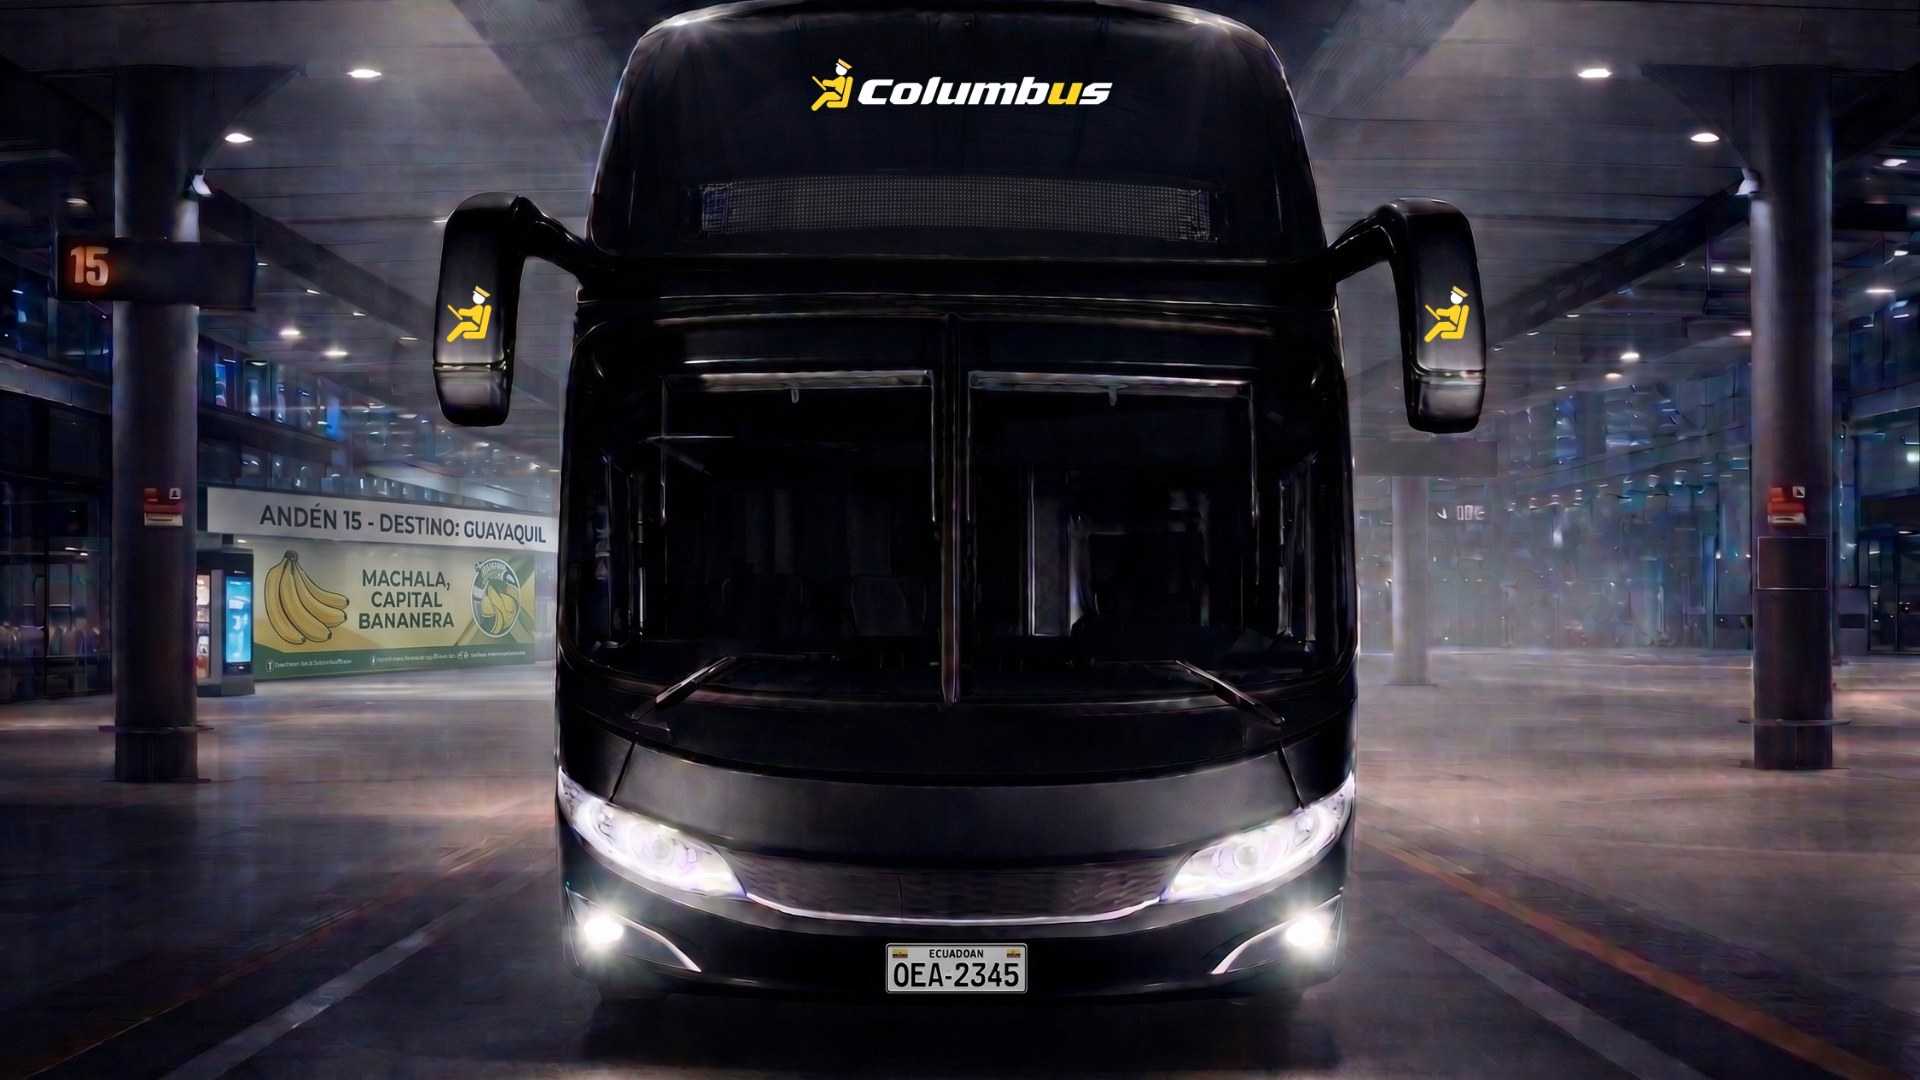
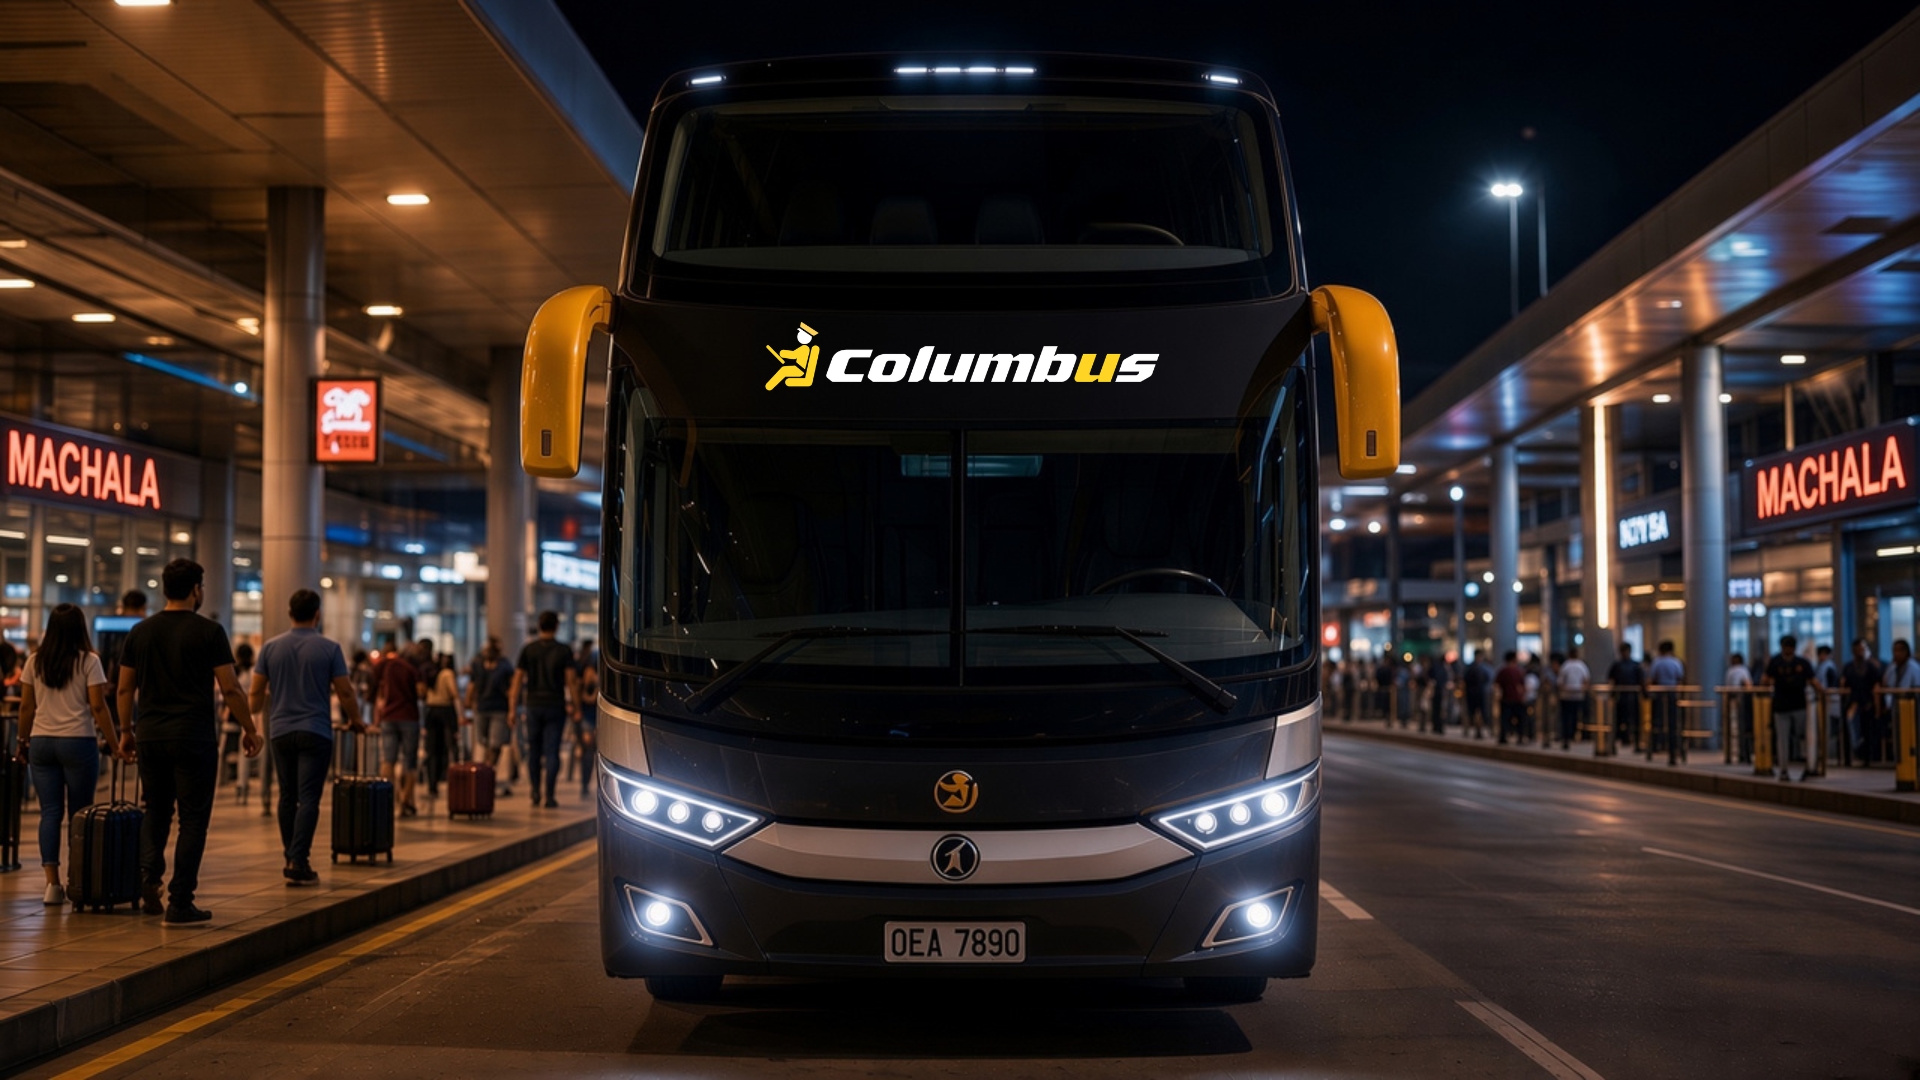
fix: sin superposicion en NINGUNA pantalla + foto real nueva del bus en Machala
El director aclaro que el problema no era exclusivo de celular:
queria la foto sin nada superpuesto en NINGUN tamaño de pantalla.

Corregido: quitados todos los ajustes md: que reactivaban la
superposicion en pantalla grande. Ahora la foto se ve completa
siempre (mas alta en escritorio, 62vh vs 46vh), contenido siempre en
flujo normal debajo. Degradado reducido a solo la parte superior de
la foto.

Foto real nueva: el director reemplazo hero-2.jpg -- mismo bus de
doble piso, logo real pintado, Terminal Machala real, pasajeros
reales. Reemplaza la foto anterior que causaba confusion visual (el
logo pintado EN la foto coincidiendo con el logo real del
encabezado -- no era un bug de codigo, aclarado por el director).

Verificado con el mismo paso extra: ademas de tsc/next build
limpios, se confirmo con grep sobre el CSS compilado que las clases
nuevas si generaron CSS real.

diff --git a/apps/web/components/Hero.tsx b/apps/web/components/Hero.tsx
@@ -31,17 +31,15 @@ export function Hero() {
   }, []);
 
   return (
-    <section className="relative overflow-hidden md:h-[92vh] md:min-h-[620px]">
-      {/* Hallazgo real del director (17-ago-2026), con evidencia
-          real: en celular, los 5 campos del buscador se apilan a
-          ancho completo -- la tarjeta crecía tanto que tapaba casi
-          toda la foto del bus. Corregido: en celular la foto tiene
-          una altura fija razonable (se ve completa, sin nada
-          superpuesto), y el contenido (título, texto, buscador) va
-          en flujo normal DEBAJO, no encima -- en pantalla grande
-          (md:) se mantiene exactamente el comportamiento superpuesto
-          de siempre, sin ningún cambio. */}
-      <div className="relative h-[46vh] min-h-[320px] md:absolute md:inset-0 md:h-full">
+    <section className="relative overflow-hidden">
+      {/* Orden real del director (17-ago-2026): "para qué tener
+          imágenes profesionales ahí si van a ser tapadas por esa
+          tarjeta" -- la superposición se quita por completo, en
+          cualquier tamaño de pantalla, no solo en celular. La foto
+          se ve completa arriba, el contenido (título, texto,
+          buscador) va en flujo normal debajo, siempre -- más alta en
+          pantalla grande, donde hay más espacio real disponible. */}
+      <div className="relative h-[46vh] min-h-[320px] md:h-[62vh] md:min-h-[480px]">
         {FOTOS.map((foto, i) => (
           <div
             key={foto}
@@ -58,13 +56,12 @@ export function Hero() {
               sizes="100vw"
               className="object-cover"
             />
-            {/* Degradado real para que el texto blanco y el logo se lean
-                bien encima de cualquier parte de la foto -- más oscuro
-                abajo, donde vive el buscador en pantalla grande. En
-                celular el buscador ya no vive encima de la foto, pero
-                el degradado se deja igual para que el título/logo del
-                encabezado se sigan leyendo bien sobre la foto. */}
-            <div className="absolute inset-0 bg-gradient-to-b from-brand-dark/55 via-brand-dark/25 to-brand-dark/75" />
+            {/* Degradado real, solo para que el logo/menú del
+                encabezado (que sí siguen superpuestos arriba de la
+                foto) se lean bien -- ya no hay título/texto/buscador
+                superpuesto más abajo, así que el degradado se
+                concentra arriba, no en toda la foto. */}
+            <div className="absolute inset-x-0 top-0 h-32 bg-gradient-to-b from-brand-dark/60 to-transparent" />
           </div>
         ))}
       </div>
@@ -147,11 +144,11 @@ export function Hero() {
         </nav>
       )}
 
-      <div className="relative z-10 bg-white px-[5%] py-8 md:flex md:h-full md:flex-col md:justify-end md:bg-transparent md:py-0 md:pb-16">
-        <h1 className="font-display max-w-xl text-3xl font-bold leading-tight text-brand-dark md:text-4xl md:text-white lg:text-5xl">
+      <div className="relative z-10 bg-white px-[5%] py-8 md:py-10">
+        <h1 className="font-display max-w-xl text-3xl font-bold leading-tight text-brand-dark md:text-4xl lg:text-5xl">
           Tu pasaje de bus, sin filas ni papeleo
         </h1>
-        <p className="mt-3 max-w-md text-base text-brand-dark/70 md:text-white/85">
+        <p className="mt-3 max-w-md text-base text-brand-dark/70">
           Compara horarios y precios de todas las cooperativas de una ruta, elige tu asiento, y recibe
           tu boleto digital con QR al instante.
         </p>

diff --git a/DOCUMENTO_MAESTRO.md b/DOCUMENTO_MAESTRO.md
@@ -1415,6 +1415,16 @@ El director probó el sitio real en modo responsive y confirmó con captura: en 
 
 **Verificado con un paso extra de disciplina, más allá de lo habitual:** además de `tsc --noEmit` limpio y `next build` 30/30 páginas, se confirmó explícitamente (con `grep` directo sobre el CSS ya compilado) que las clases responsivas nuevas (`h-[46vh]`, `min-h-[320px]`) sí generaron CSS real.
 
+## 5.35 Sin superposición en NINGUNA pantalla + foto real nueva del bus en Machala -- 17-ago-2026
+
+El director aclaró, tras la sección 5.34, que el problema no era exclusivo de celular: "para qué tener imágenes profesionales ahí si van a ser tapadas por esa tarjeta" -- confirmó que quería la foto sin nada superpuesto en NINGÚN tamaño de pantalla, no solo en celular.
+
+**Corregido:** se quitaron todos los ajustes `md:` que reactivaban la superposición en pantalla grande. Ahora, en cualquier tamaño, la foto se ve completa arriba (más alta en escritorio, `62vh` vs `46vh` en celular, aprovechando el espacio real disponible), y el contenido (título, texto, buscador) va siempre en flujo normal debajo, nunca encima. El degradado oscuro se redujo a solo la parte superior de la foto (donde sigue viviendo el logo/menú del encabezado, que sí permanece superpuesto) -- ya no cubre toda la foto, porque ya no hace falta para leer texto blanco sobre ella.
+
+**Foto real nueva:** el director proporcionó una foto nueva y reemplazó la anterior (`hero-2.jpg`) -- mismo bus de doble piso, con el logo real Columbus pintado en el parabrisas, en la Terminal de Machala real, con pasajeros reales con maletas. Reemplaza la foto anterior del bus de frente que causaba la confusión visual reportada (el logo pintado EN la foto coincidiendo con el logo real del encabezado, no un bug de código -- ver aclaración del director en esta misma sesión).
+
+**Verificado con el mismo paso extra de disciplina:** además de `tsc --noEmit` limpio y `next build` 30/30 páginas, se confirmó con `grep` directo sobre el CSS compilado que las clases nuevas (`h-[62vh]`, `min-h-[480px]`) sí generaron CSS real.
+
 ## 6. Regla de mantenimiento de este documento
 
 Este documento se actualiza al cierre de cada sesión de trabajo real donde algo cambie de estado — no solo cuando se pida explícitamente. **Ninguna construcción nueva empieza sin que la decisión ya esté escrita aquí y confirmada primero (regla reforzada 2-ago-2026, ver sección 5).** **REGLA NO NEGOCIABLE (07-ago-2026): ningún ítem se marca "completo" sin responder primero "¿qué le falta comparado con las mejores plataformas del mundo?".** Ningún resumen de conversación ni memoria de sesión reemplaza esto como fuente de verdad. Antes de escribir código nuevo, se consulta este documento primero.
